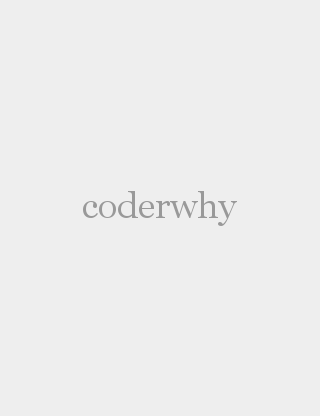
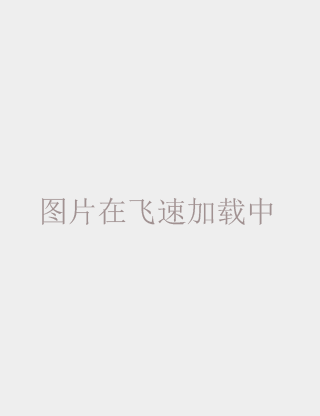
'px2vw'

Changed region(s): [[0.125, 0.4375, 0.875, 0.5625]]

diff --git a/src/views/category/Category.vue b/src/views/category/Category.vue
@@ -1,58 +1,12 @@
 <template>
-  <div class="conter" ref="aaa">
-    <ul>
-      <button @click="itemClick">按钮</button>
-      <li>内容1</li>
-      <li>内容2</li>
-      <li>内容3</li>
-      <li>内容4</li>
-      <li>内容5</li>
-      <li>内容6</li>
-      <li>内容7</li>
-      <li>内容8</li>
-      <li>内容9</li>
-      <li>内容10</li>
-      <li>内容11</li>
-      <li>内容12</li>
-      <li>内容13</li>
-      <li>内容14</li>
-      <li>内容15</li>
-      <li>内容16</li>
-      <li>内容17</li>
-      <li>内容18</li>
-      <li>内容19</li>
-      <li>内容20</li>
-      <li>内容21</li>
-      <li>内容22</li>
-      <li>内容23</li>
-      <li>内容24</li>
-      <li>内容25</li>
-      <li>内容26</li>
-      <li>内容27</li>
-      <li>内容28</li>
-      <li>内容29</li>
-      <li>内容30</li>
-      <li>内容31</li>
-      <li>内容32</li>
-      <li>内容33</li>
-      <li>内容34</li>
-      <li>内容35</li>
-      <li>内容36</li>
-      <li>内容37</li>
-      <li>内容38</li>
-      <li>内容39</li>
-      <li>内容40</li>
-      <li>内容41</li>
-      <li>内容42</li>
-      <li>内容43</li>
-      <li>内容44</li>
-      <li>内容45</li>
-      <li>内容46</li>
-      <li>内容47</li>
-      <li>内容48</li>
-      <li>内容49</li>
-      <li>内容50</li>
-    </ul>
+  <div>
+    <nav-bar class="navbar">
+      <div slot="center">商品分类</div>
+    </nav-bar>
+    <category-menu/>
+    <div class="conter" ref="aaa">
+      
+    </div>
   </div>
 </template>
 
@@ -60,12 +14,15 @@
 
 import BScroll from 'better-scroll'
 
-export default {
-  // created() {
-  //   new BScroll('conter', {
+import CategoryMenu from './childComps/CategoryMenu'
 
-  //   })
-  // },
+import NavBar from '@/components/common/navbar/NavBar'
+
+export default {
+  components: {
+    NavBar,
+    CategoryMenu
+  },
   data() {
     return {
       bscroll: null
@@ -94,6 +51,10 @@ export default {
 </script>
 
 <style>
+  .navbar {
+    color: #fff;
+    background-color: #ff7675;
+  }
   .conter {
     height: 100px;
     background-color: #333;

diff --git a/src/views/category/childComps/CategoryMenu.vue b/src/views/category/childComps/CategoryMenu.vue
@@ -1,0 +1,56 @@
+<template>
+  <div class="menu">
+    <scroll class="scroll">
+      <ul>
+        <li>asdad</li>
+        <li>asdad</li>
+        <li>asdad</li>
+        <li>asdad</li>
+        <li>asdad</li>
+        <li>asdad</li>
+        <li>asdad</li>
+        <li>asdad</li>
+        <li>asdad</li>
+        <li>asdad</li>
+        <li>asdad</li>
+        <li>asdad</li>
+        <li>asdad</li>
+        <li>asdad</li>
+        <li>asdad</li>
+        <li>asdad</li>
+        <li>asdad</li>
+        <li>asdad</li>
+        <li>asdad</li>
+        <li>asdad</li>
+        <li>asdad</li>
+        <li>asdad</li>
+        <li>asdad</li>
+        <li>asdad</li>
+        <li>asdad</li>
+        <li>asdad</li>
+        <li>asdad</li>
+        <li>asdad</li>
+        <li>asdad</li>
+        <li>asdad</li>
+      </ul>
+    </scroll>
+  </div>
+</template>
+
+<script>
+import Scroll from '@/components/common/scroll/Bscroll'
+export default {
+  Scroll
+}
+</script>
+
+<style scoped>
+  .menu {
+    width: 80px;
+    background-color: #333;
+  }
+  .scroll {
+    overflow: hidden;
+    height: calc(100vh - 93px);
+  }
+</style>

diff --git a/src/views/detail/Detail.vue b/src/views/detail/Detail.vue
@@ -6,6 +6,7 @@
       @scroll="contentScroll">
       <detail-swiper :top-imgs="topImgs" />
       <detail-info :goods="goods"/>
+      <div class="split"></div>
       <shop-info :shop="shops"/>
       <detail-goods-info @imgLoad="imgLoad" :detail-goods="detailGoods" />
       <detail-paramInfo :param-info="paramsInfo" ref="param"/>
@@ -91,7 +92,10 @@ export default {
       // 获取参数
       this.paramsInfo = new GoodsParam(data.itemParams.info, data.itemParams.rule)
       // 获取用户评论
-      this.discuss = data.rate.list[0]
+      if(undefined != data.rate.list) {
+        this.discuss = data.rate.list[0]
+      }
+
       // 获取每个标题对应所在position位置
       this.getTitleY = debounce(() => {
         const height = 44
@@ -177,6 +181,8 @@ export default {
     height: calc(100vh - 93px);
   }
   .split {
-    margin: 10px 0;
+    height: 8px;
+    margin-bottom: 5px;
+    background: rgba(100, 100, 100, .1)
   }
 </style>

diff --git a/postcss.config.js b/postcss.config.js
@@ -1,0 +1,15 @@
+module.exports = {
+  plugins: {
+    autoprefixer: {},
+    "postcss-px-to-viewport": {
+      viewportWith: 375,    // 视窗宽度，对应我们设计稿的宽度
+      viewportHeight: 667,  // 视窗高度，对应我们设计稿的高度
+      unitPrecision: 5,     // 指定'px'转换为视窗单位值的小数位数(因为很多时候无法整除)
+      viewportUnit: 'vw',   // 指定需要转换成的视窗单位，建议vw
+      // 指定哪些.class不需要转化
+      selectorBlackList: ['ignore', 'tab-bar', 'tab-bar-item'],
+      minPixelValue: 1,     // 小于或等于'1px'不转化为视窗单位
+      mediaQuery: false     // 允许在媒体查询中转换'px'
+    }
+  }
+}

diff --git a/src/main.js b/src/main.js
@@ -4,13 +4,25 @@ import router from './router/index'
 import store from './store/index'
 import toast from './components/common/toast/index'
 
+import FastClick from 'fastclick'
+import VueLazyLoad from "vue-lazyload"
+
 Vue.config.productionTip = false
 Vue.prototype.$bus = new Vue()
 //安装toast插件
 Vue.use(toast)
+//安装VueLazyLoad插件
+Vue.use(VueLazyLoad, {
+  loading: require('./assets/img/common/placeholder.png')
+})
+
+// 解决移动端300ms延迟
+FastClick.attach(document.body)
 
 new Vue({
   render: h => h(App),
   router,
   store
 }).$mount('#app')
+
+

diff --git a/src/views/detail/childComps/DetailBottomBar.vue b/src/views/detail/childComps/DetailBottomBar.vue
@@ -46,7 +46,7 @@ export default {
  }
  .serve {
    flex: 0.5;
-   background-color: #F8EFBA;
+   background-color: #f5f6fa;
    display: flex;
  }
  .serve>div {
@@ -74,12 +74,12 @@ export default {
  } */
  .cart {
    flex: 0.3;
-   color: #34495e;
-   background-color: #f1c40f;
+   color: #2f3542;
+   background-color: #dfe6e9;
  }
  .buy {
    flex: 0.2;
-   color: #ecf0f1;
+   color: #f1f2f6;
    background-color: #58B19F;
  }
 </style>

diff --git a/src/views/cart/Cart.vue b/src/views/cart/Cart.vue
@@ -4,7 +4,7 @@
       <h4 slot="center">购物车({{cartLength}})</h4>
     </nav-bar>
     <cart-list/>
-    <bot-bar/>
+    <bot-bar class="botbar" />
   </div>
 </template>
 
@@ -37,6 +37,13 @@ export default {
     background-color: #ecf0f1;
   }
   .nav-bar {
-    background-color: #FEA47F;
+    color: #fff;
+    background-color: #ff7675;
+  }
+  .botbar {
+    position: fixed;
+    bottom: 0;
+    left: 0;
+    right: 0;
   }
 </style>

diff --git a/src/network/category.js b/src/network/category.js
@@ -1,0 +1,27 @@
+import axios from './axios'
+
+
+export function getCategory() {
+  return axios({
+    url: '/category'
+  })
+}
+
+export function getSubcategory(maitKey) {
+  return axios({
+    url: '/subcategory',
+    params: {
+      maitKey
+    }
+  })
+}
+
+export function getCategoryDetail(miniWallkey, type) {
+  return axios({
+    url: '/subcategory/detail',
+    params: {
+      miniWallkey,
+      type
+    }
+  })
+}

diff --git a/src/views/cart/childComps/CartBotBar.vue b/src/views/cart/childComps/CartBotBar.vue
@@ -57,7 +57,12 @@ export default {
     },
     pay() {
       if(!this.isChecked) {
-        this.$toast.show('请选择购买的商品')
+        if(this.cartList.find(item => item.checked)){
+          this.$toast.show('购买成功1')
+        }else
+          this.$toast.show('请选择购买的商品')
+      }else{
+        this.$toast.show('购买成功2')
       }
     }
   },

diff --git a/src/components/content/goods/GoodsItem.vue b/src/components/content/goods/GoodsItem.vue
@@ -1,6 +1,6 @@
 <template>
   <div class="goods-item" @click="itemClick">
-    <img :src="goods.show.img" alt="" @load="imgLoad">
+    <img v-lazy="goods.show.img" alt="" @load="imgLoad">
     <div class="goods-info">
       <p class="title">{{goods.title}}</p>
       <span class="price">¥{{goods.price}}</span>

diff --git a/src/views/cart/childComps/CartList.vue b/src/views/cart/childComps/CartList.vue
@@ -34,8 +34,11 @@ export default {
 </script>
 
 <style scoped>
+  .cart {
+    height: 100vh;
+  }
   .scroll {
     overflow: hidden;
-    height: calc(100vh - 93px - 40px);
+    height: calc(100% - 93px - 40px);
   }
 </style>
